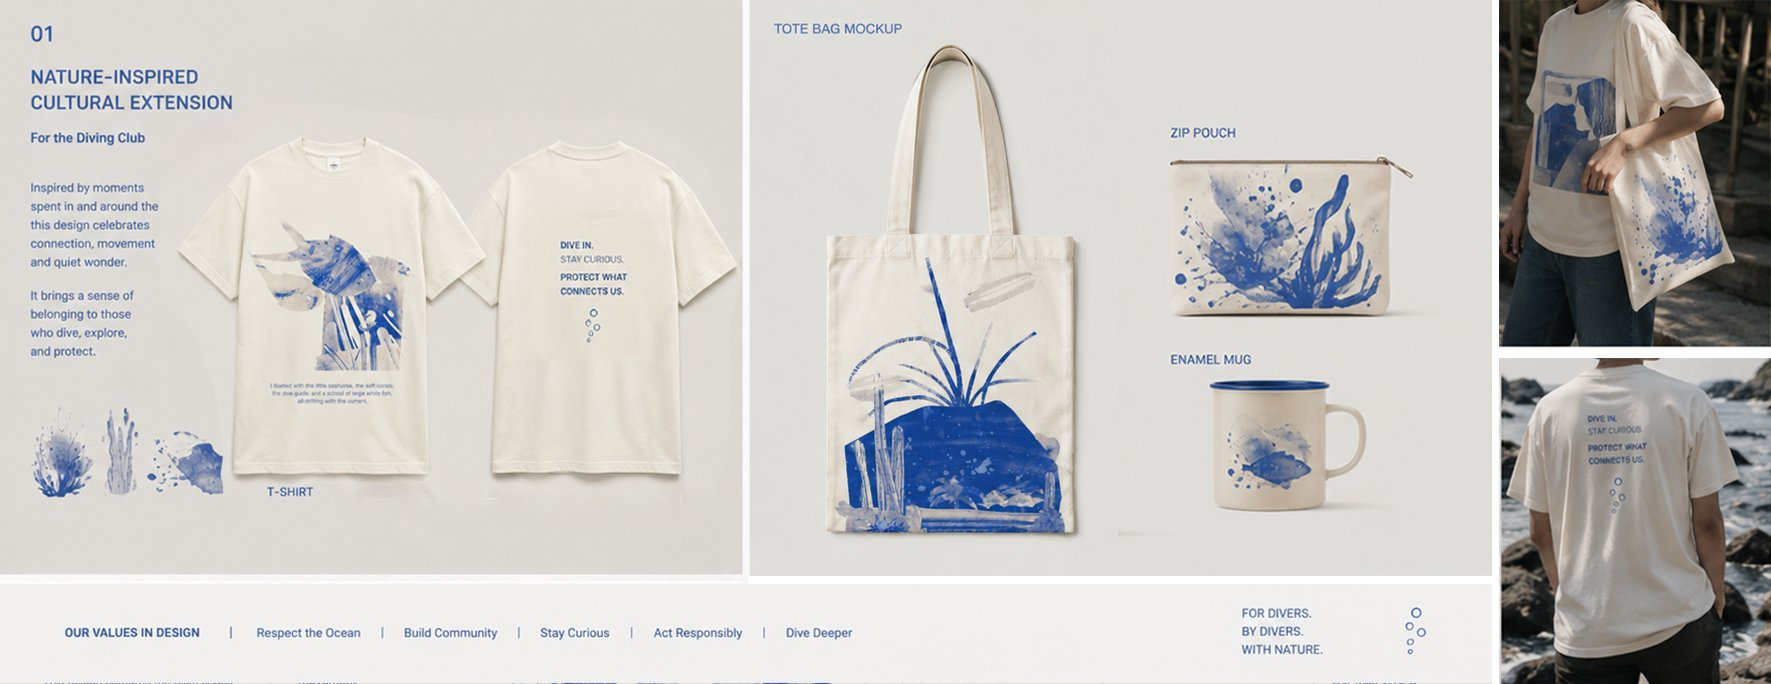
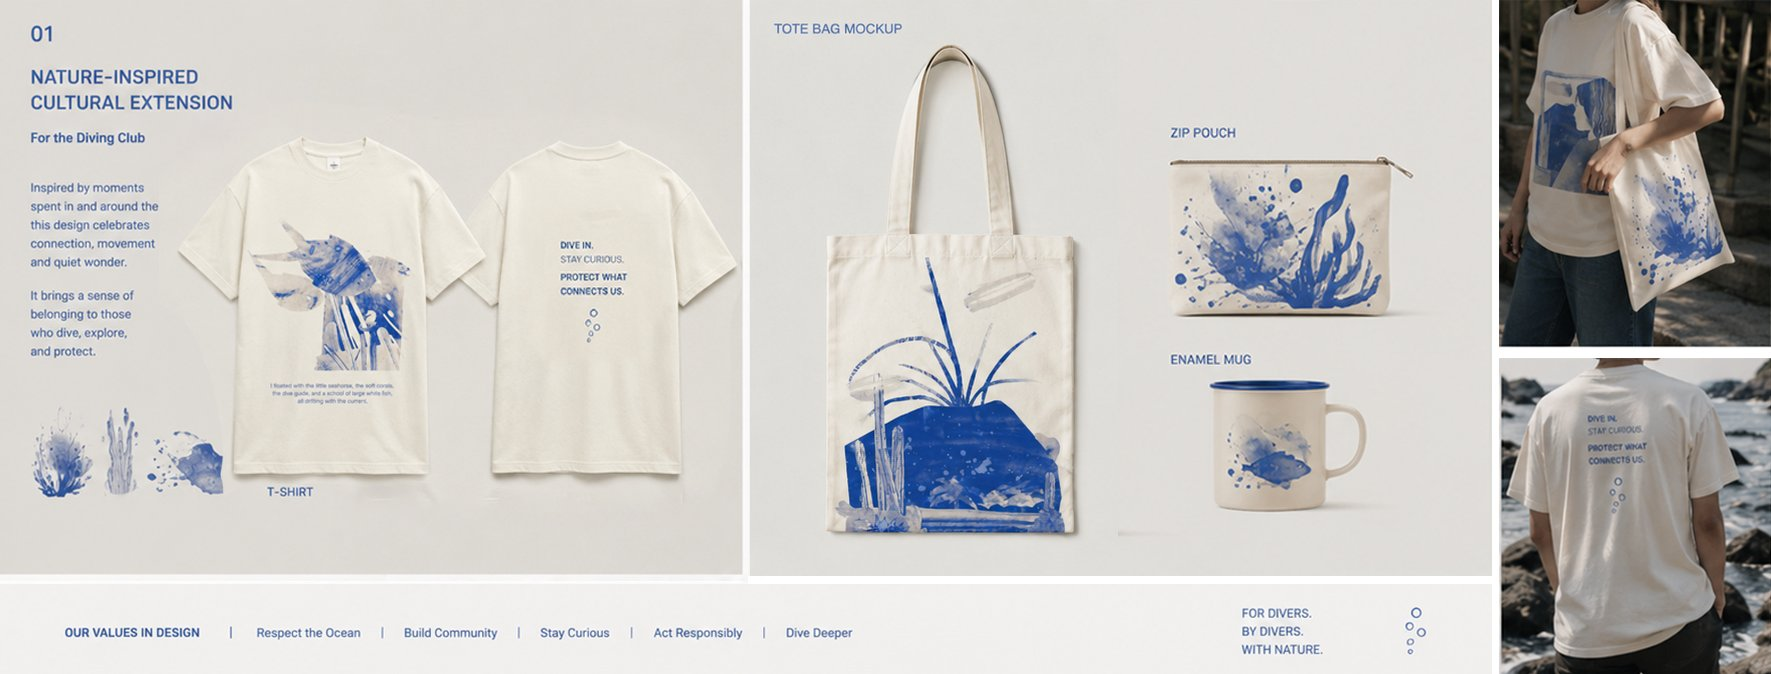
Add files via upload

diff --git a/project-06.html b/project-06.html
@@ -140,15 +140,16 @@
   }
   .hero-meta {
     font-size: 0.72rem; color: var(--ink-3);
-    line-height: 2.2; border-top: 0.5px solid var(--rule);
+    line-height: 1; border-top: 0.5px solid var(--rule);
     padding-top: 1.5rem;
   }
+  .hero-meta div { margin-bottom: 0.6rem; }
   .hero-meta strong { color: var(--ink-2); font-weight: 500; }
 
   /* ── MOCKUP SECTION ── */
   .mockup-section {
     background: #f0f0f5;
-    padding: 6rem 0;
+    padding: 6rem 0 4rem;
     overflow: hidden;
   }
   .mockup-label {
@@ -387,46 +388,46 @@
     <p class="hero-subtitle reveal d2">A graphic narrative in 26 pages</p>
   </div>
   <div class="hero-right">
-    <span class="hero-tag reveal">Illustration · Narrative · Print</span>
-    <p class="hero-desc reveal d1">
-      "I wasn't born silent. I just spent nineteen years practicing a reflex: keeping the peace."
-    </p>
+    <span class="hero-tag reveal">Cultural Extension · Diving Club · Print</span>
+    <p class="hero-desc reveal d1">A nature-inspired cultural extension designed for the diving community — celebrating the connection between breath, movement, and quiet wonder beneath the surface.</p>
     <div class="hero-meta reveal d2">
-      <strong>Medium</strong> — Mixed media, risograph-style print<br>
-      <strong>Language</strong> — English / 中文<br>
-      <strong>Pages</strong> — 26<br>
-      <strong>Context</strong> — Unit 5 Final Project, UAL
+      <div><strong>For</strong> — Divers. By Divers. With Nature.</div>
+      <div><strong>Medium</strong> — Mixed media, risograph-style print</div>
+      <div><strong>Products</strong> — T-shirt · Tote bag · Zip pouch · Enamel mug</div>
     </div>
   </div>
 </section>
 
 <!-- ═══════ MOCKUP ═══════ -->
 <div class="mockup-section reveal">
-  <p class="mockup-label">Product Application</p>
+  <p class="mockup-label">Nature-Inspired Cultural Extension · For the Diving Club</p>
   <img class="mockup-img" src="mockup.png" alt="Product mockup — T-shirt, tote bag, zip pouch, enamel mug"/>
 </div>
 
 <!-- ═══════ ABOUT CELLS ═══════ -->
 <div class="about-strip">
   <div class="about-cell reveal">
-    <p class="cell-label">The Story</p>
-    <p class="cell-text">A letter to her mother — written in three things she finally learned to say. Group conflict. A seahorse at sixty feet. A Spanish girl on a volcanic island road.</p>
+    <p class="cell-label">The Concept</p>
+    <p class="cell-text">Inspired by moments spent in and around the ocean, this design celebrates connection, movement and quiet wonder — bringing a sense of belonging to those who dive, explore, and protect.</p>
   </div>
   <div class="about-cell reveal d1">
-    <p class="cell-label">The Language</p>
-    <p class="cell-text">Underwater, the only language is breath. One inhale and you rise. The comic explores what happens when verbal language fails — and what remains.</p>
+    <p class="cell-label">The Inspiration</p>
+    <p class="cell-text">The design language grew from a personal experience learning to dive. Underwater, the only language is breath — one inhale and you rise. These gestures became the visual grammar of the work.</p>
   </div>
   <div class="about-cell reveal d2">
-    <p class="cell-label">The Form</p>
-    <p class="cell-text">Risograph-inspired blue duotone. Mixed-media collage. Each spread is a texture — geological strata, watercolour wash, cut paper — translated into print.</p>
+    <p class="cell-label">The Values</p>
+    <p class="cell-text">Respect the Ocean · Build Community · Stay Curious · Act Responsibly · Dive Deeper.</p>
   </div>
 </div>
 
 <!-- ═══════ FLIPBOOK ═══════ -->
 <div id="flipbook-section">
   <div class="flipbook-header">
-    <p class="flipbook-label reveal">Read the full comic</p>
+    <p class="flipbook-label reveal">The Inspiration Behind the Design</p>
     <h2 class="flipbook-title reveal d1">Mom, I Have Something to Say</h2>
+    <p class="reveal d2" style="font-size:0.82rem;color:rgba(255,255,255,0.45);max-width:560px;margin:1.2rem auto 0;line-height:1.8;letter-spacing:0.02em;">
+      The product series draws its visual language from this personal graphic narrative — a story written while learning to dive in Lanzarote. The cobalt blue, the organic forms, the sense of weightlessness: all born from the moment of first neutral buoyancy, sixty feet below the surface.
+    </p>
   </div>
 
   <div style="padding: 0 8vw; position: relative;">
@@ -466,18 +467,10 @@
     <p class="colophon-body">
       Drawn during a trip to Lanzarote — a volcanic island surrounded by sea — where the artist obtained her Open Water scuba diving certification. The cobalt blue of the illustrations is the blue of that specific sea.
     </p>
-    <p class="colophon-body" style="font-size:0.78rem;color:var(--ink-3);margin-top:1.5rem;">
-      绘于 Lanzarote 旅行途中 · 一座被大海环绕的火山岛<br>
-      给 Unit 5 结课作业 · 给 19 岁的我自己
-    </p>
   </div>
   <div class="colophon-right">
     <p class="col-label">Medium</p>
     <p class="col-text">Mixed media collage · Risograph-style duotone print · Adobe InDesign</p>
-    <p class="col-label">Palette</p>
-    <p class="col-text">Cobalt blue · Warm cream · Graphite black</p>
-    <p class="col-label">Context</p>
-    <p class="col-text">UAL Unit 5 Final Project · 2026</p>
     <p class="col-label">Applied Design</p>
     <p class="col-text">T-shirt · Tote bag · Zip pouch · Enamel mug<br>For Divers. By Divers. With Nature.</p>
   </div>
